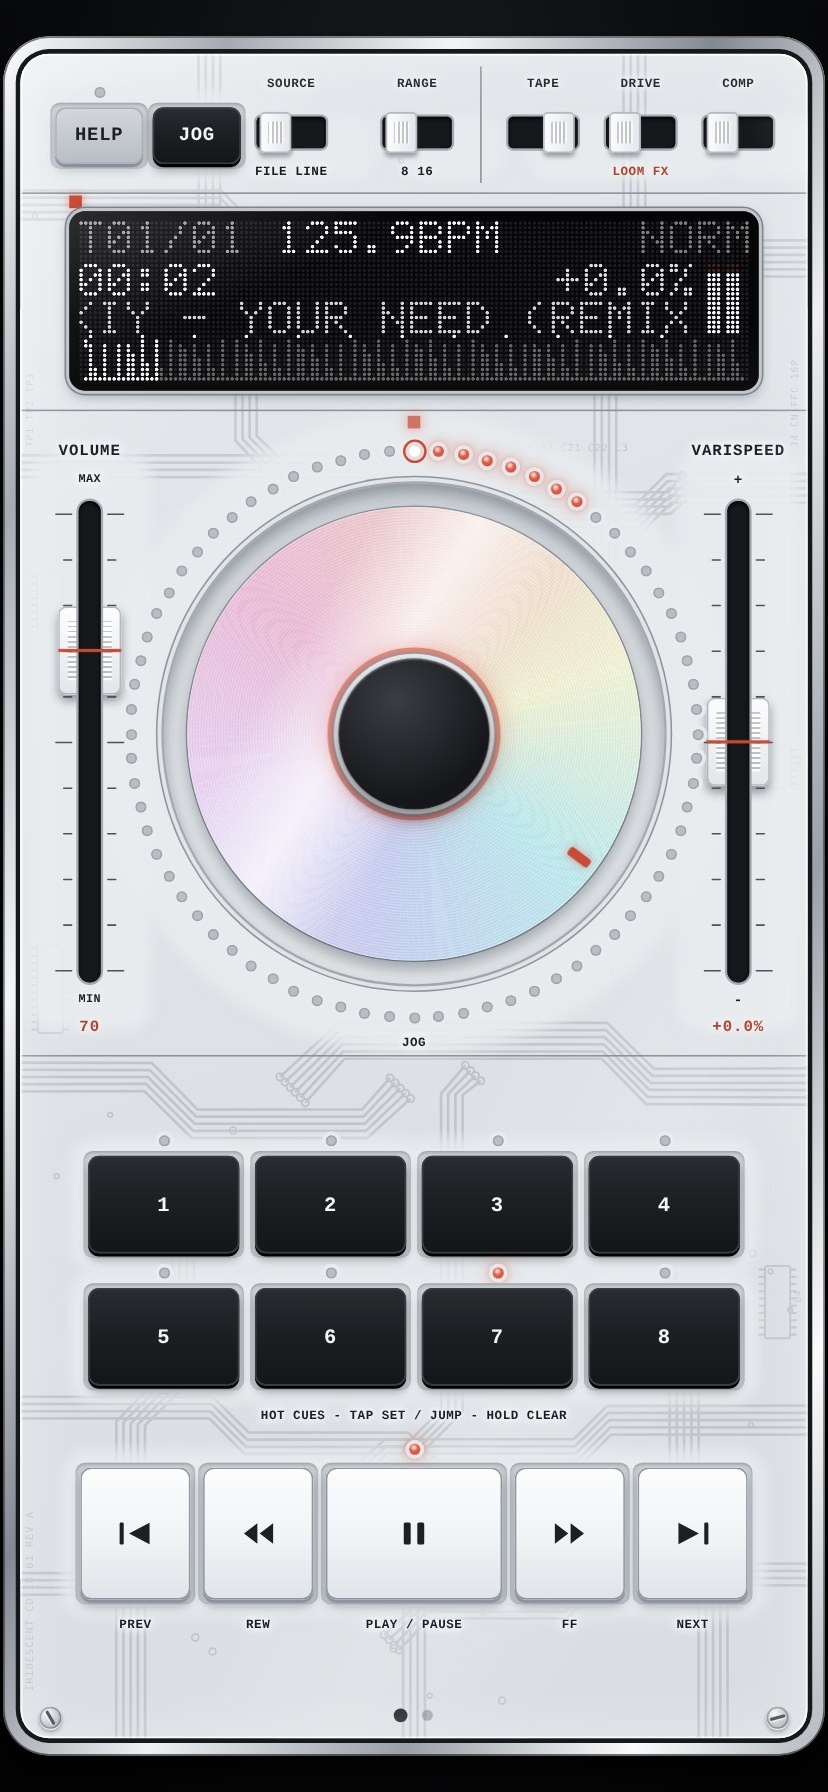
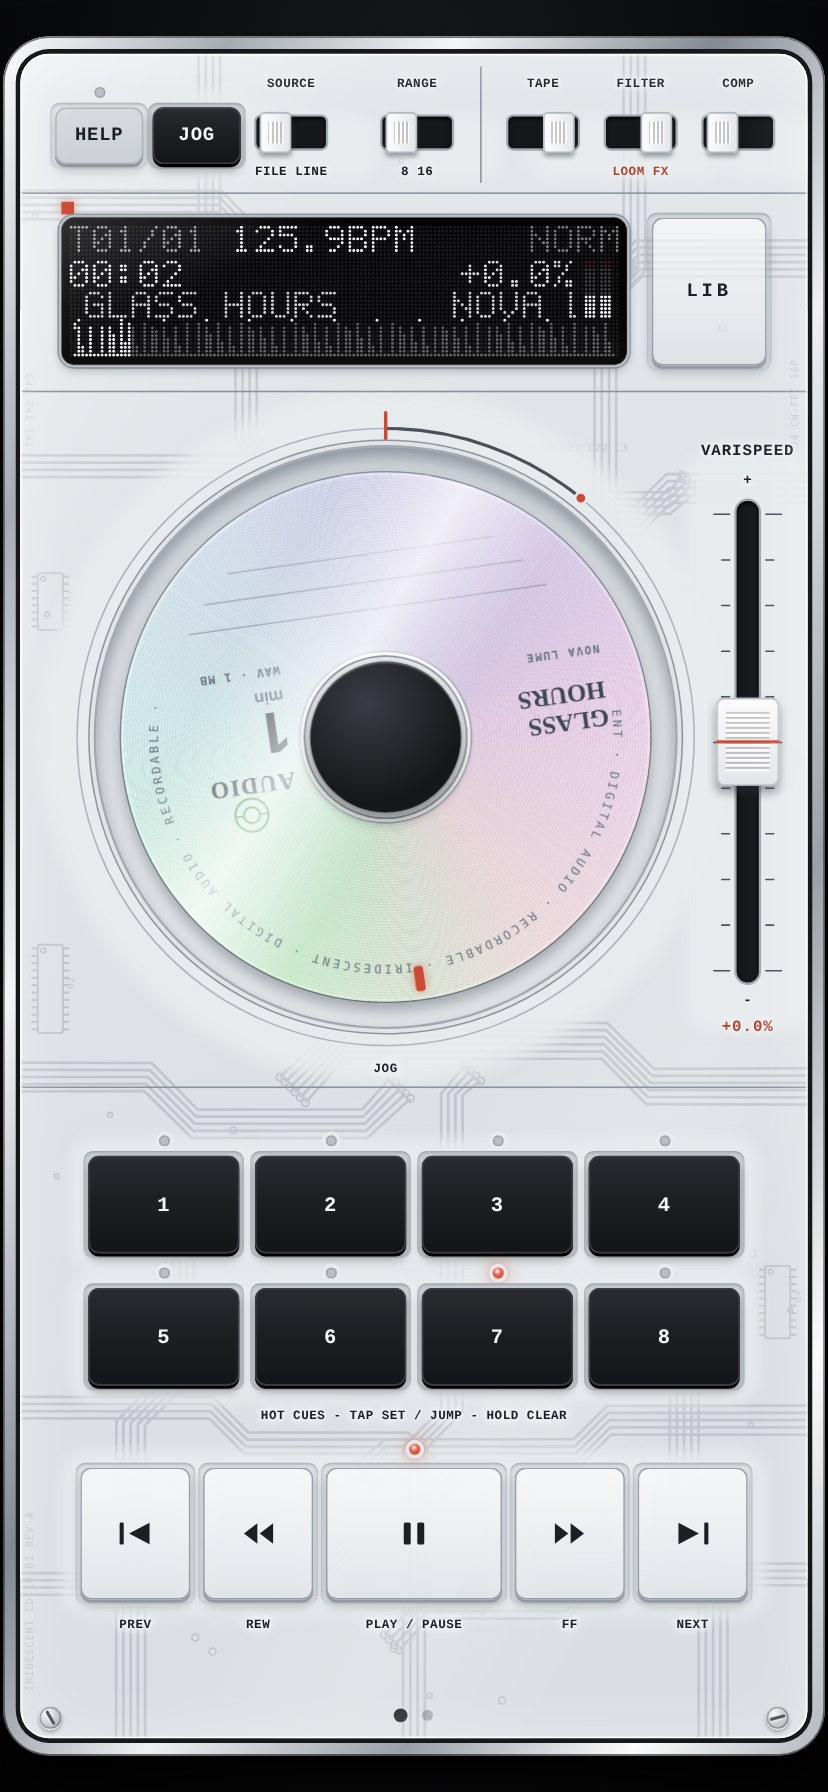
Add files via upload

Changed region(s): [[0.0302, 0.0312, 0.9662, 0.625]]

diff --git a/sw.js b/sw.js
@@ -1,5 +1,5 @@
 /* IRIDESCENT: tiny offline cache. Put next to index.html. */
-const C = 'iridescent-v47';
+const C = 'iridescent-v63';
 self.addEventListener('install', e => { e.waitUntil(caches.open(C).then(c => c.addAll(['./', './index.html', './manifest.webmanifest', './icons/icon-180.png', './icons/icon-512.png', './icons/icon-32.png'])).then(() => self.skipWaiting())); });
 self.addEventListener('activate', e => { e.waitUntil(caches.keys().then(ks => Promise.all(ks.filter(k => k !== C).map(k => caches.delete(k)))).then(() => self.clients.claim())); });
 self.addEventListener('fetch', e => {

diff --git a/README.md b/README.md
@@ -1,6 +1,6 @@
 # IRIDESCENT
 
-**An analog-digital CD player for the phone, tablet and desktop.** Load your own audio files, spin them on a jog disc, scratch, drop hot cues, loop, match the tempo and warm everything up with tape, drive and compression. One `index.html`, no build step, no dependencies.
+**An analog-digital CD player for the phone, tablet and desktop.** Load your own audio files, spin them on a jog disc, scratch, drop hot cues, loop, match the tempo and warm everything up with tape, a filter and compression. One `index.html`, no build step, no dependencies.
 
 **[Open the live app](https://shoogaze.github.io/iridescent-player-/)** — on iPhone, open it in Safari and use Share → Add to Home Screen.
 
@@ -17,13 +17,17 @@ IRIDESCENT belongs to a small family of skeuomorphic, single-file instruments bu
 | [**LOOM**](https://shoogaze.github.io/loom-pedalboard/) | A set of guitar-effect pedals as a PWA. It defines the sound: tape, drive and compression stages. |
 | **IRIDESCENT** | The CD player. ZIIION's face, LOOM's effects, plus transport built for a disc. |
 
-IRIDESCENT reuses the ZIIION design system (knobs, buttons, switches, LEDs, PCB traces, 5x7 dot-matrix font) and carries simplified versions of the LOOM TAPE, DRIVE and COMP stages. Sibling of the cassette player TAPE-4.
+IRIDESCENT reuses the ZIIION design system (knobs, buttons, switches, LEDs, PCB traces, 5x7 dot-matrix font) and carries simplified versions of the LOOM TAPE and COMP stages plus a one-knob FILTER. Sibling of the cassette player TAPE-4.
 
 ## Screens
 
-The lower half of the deck is a carousel of big-button pages (swipe sideways, two dots show where you are): pads and transport, functions and FX.
+The top of the deck holds the display with the LIB button, the jog disc with its progress ring and the VARISPEED fader. The lower half is a carousel of big-button pages (swipe sideways, two dots show where you are): pads and transport, functions and FX.
 
 ![Pages](screens/pages.jpg)
+
+A disc with its printed label (banner layout, edited in LIBRARY → LABEL):
+
+<img src="screens/label.jpg" width="300" alt="Disc label">
 
 In the app, press HELP and tap any control: the dot-matrix display names it and scrolls what it does.
 
@@ -31,25 +35,27 @@ Keyboard: `Space` play / pause, `←` `→` seek 5 s, `N` / `P` next / previous.
 
 ## Features
 
+- **The disc**: it turns at a CD's speed (fast near the hub, slowing toward the rim as the track plays), translucent so the board shows through. Hold JOG to flip it between COLOR (a hue per disc) and WHITE. Grab it with a finger to hold it still, move it both ways to scratch, let go and it spins back up.
+- **Disc label**: every disc gets a printed face generated from the file (title and artist from the file name, real length, format and size) in one of eight layouts (classic, banner, technical, dotted, ruled card, corner block, stripe, handwritten mixtape) or left blank with just a fine rim line. Open LIBRARY → LABEL to edit two lines and a handwritten note, pick a layout (AUTO picks one per disc) or reset. Labels are stored on the device. No brand names or logos.
+- **Beat jump**: on page 2 the BEAT JUMP button jumps the playhead by the shown number of beats (+1, +4, +8, +16 or back −1 … −16). Hold it to change the step. Needs a detected BPM.
 - **Disc physics** – platter spin-up and brake, flick inertia, REW/FF as tape-style search with pitch, auto loops (1/4 to 4 bars), loop roll with slip, CDJ cue, JOG modes VINYL / CDJ (rim bends the speed).
-- **Tempo** – BPM and beat grid are detected on load (cached per file); beat ticks on the display, the red LED pulses on the beat. **SYNC** locks the deck to the master tempo via varispeed (8/16 %, half/double aware), hold it for **QUANTIZE** (cues and loops snap to the beat). Tap the BPM on the display to fix half/double time.
+- **Tempo** – BPM and beat grid are detected on load (cached per file); beat ticks on the display. **SYNC** locks the deck to the master tempo via varispeed (8/16 %, half/double aware), hold it for **QUANTIZE** (cues and loops snap to the beat). Tap the BPM on the display to fix half/double time.
 - **CD behaviour**: PLAY spins the disc up first (about half a second), then the sound starts at full speed; PAUSE cuts the sound at once with no pitch fall (that is for tapes) while the disc spins down. Scratching keeps its vinyl feel.
 - **Buffer engine**: the disc is decoded and played from memory, so VARISPEED glides smoothly and play/pause has no dropout (like HISS). LOCK (pitch lock) uses its own WSOLA time-stretch in an AudioWorklet, so tempo changes keep the pitch. With the screen locked it keeps playing from the buffer (a timer drives the engine and the next track starts on its own), the same way HISS does. Add `#nobuf` to the URL to switch it off.
 - **Scratch**: touch the disc and it stops like a record under your finger; move it back and forth to scratch, forwards and backwards, with vinyl friction noise and the full effect chain. Release and the disc plays on. (Experimental: `index.html#gapless` hands the sound back without the ~0.4 s hole iOS leaves after a seek; it is off by default until it is verified on a real iPhone.) The SCR key turns it off; then the jog only scrubs while paused and nudges the speed while playing.
 - **8 hot cues** per track: tap to set or jump, hold to clear. Stored per file.
 - **A-B loop**, **MAIN CUE**, **PREV / REW / PLAY / FF / NEXT**, play modes.
 - **Weighted knobs**: values glide on a damped spring, a quick flick keeps turning for a moment like a DJ-deck encoder, double tap glides back to default, and the audio parameters morph instead of jumping.
-- **Varispeed** fader, range 8 or 16 percent, with **LOCK** to keep pitch.
-- **Level meter**: two L/R LED columns on the display, read after the limiter, with red clip segments; useful with DRIVE and TAPE.
-- **Library**: your files are stored in the browser (IndexedDB) and survive a reload. The `#` button opens a number pad to jump to a track by its number.
-- **LOOM FX**: TAPE (wow, flutter, hiss, saturation), DRIVE (tanh waveshaper, 2x oversampling), COMP, plus BASS and TREBLE.
+- **Varispeed** fader, range 8 or 16 percent, with **LOCK** to keep pitch. Output level is fixed (there is no volume fader); the phone's own volume sets loudness.
+- **Level meter**: two L/R LED columns on the display, read after the limiter, with red clip segments; useful with TAPE and COMP.
+- **LOOM FX**: TAPE (wow, flutter, hiss, saturation), FILTER (one knob: low-pass to the left, high-pass to the right, open in the middle), COMP, plus BASS and TREBLE.
 - **LINE IN** from the device input, with echo cancellation and noise suppression off.
 - **Phone in landscape**: no separate layout by design; the player keeps its portrait panel and shows a small rotate hint. The installed app (home-screen icon) is locked to portrait.
-- **Waveform** on the display and a 72-LED progress ring.
+- **Waveform** on the display and a thin progress ring around the disc that also shows your cue points and the loop.
 - **Resume**: remembers the position of each file; load it again and it picks up where you left it.
 - **Disc cover**: every disc gets its own iridescent colors, derived from the file.
 - **Disc change animation**: the old disc lifts out, the new one drops onto the spindle.
-- **Library**: a shelf of big iridescent discs, each with its title and length; the playing disc has a red ring. Tap a disc to load it, tap the cross to remove it. New discs drop in one by one.
+- **Library** (the LIB button next to the display): your files are stored in the browser (IndexedDB) and survive a reload. A shelf of big iridescent discs, each with its printed label and length; the `#` button opens a number pad to jump to a track by its number; the playing disc has a red ring. Tap a disc to load it, tap the cross to remove it. New discs drop in one by one.
 - **HELP mode**: press HELP, then tap any control; the dot-matrix display names it and scrolls what it does. Nothing is triggered while help is on. Hints come in English and Russian (the display has a Cyrillic dot-matrix font): hold HELP to switch; the language follows the browser by default.
 - Media Session controls on the lock screen, Wake Lock, silent-switch workaround on iOS.
 - Built-in demo disc (three synthesized tracks), so it plays with nothing loaded.
